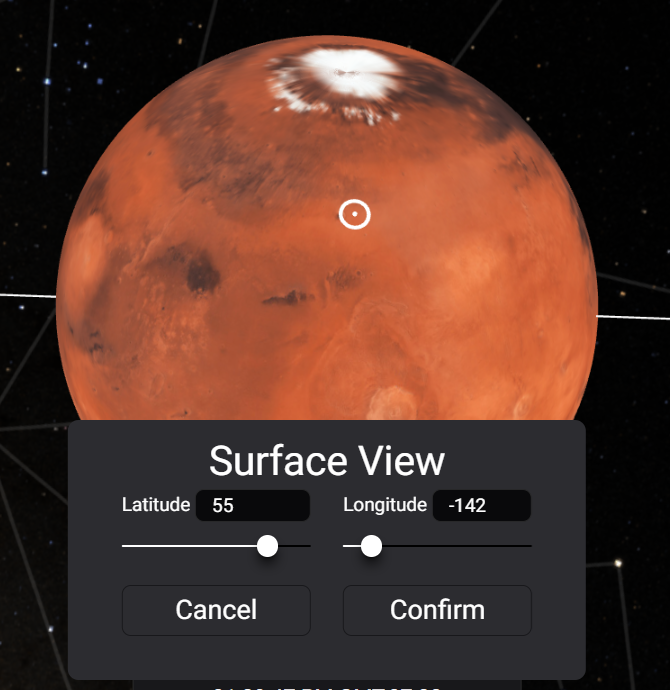
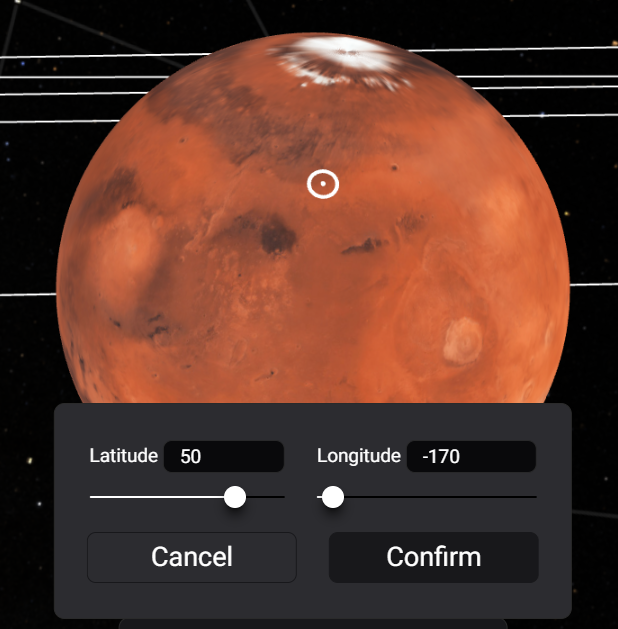
add screenshots to user guide

diff --git a/src/components/dom/hud/surface-dialog/SurfaceViewDialog.tsx b/src/components/dom/hud/surface-dialog/SurfaceViewDialog.tsx
@@ -52,93 +52,98 @@ const SurfaceViewDialog = () => {
     <div
       ref={divRef}
       data-state={state.value}
-      className="prose pointer-events-auto flex h-48 w-96 max-w-[50vw] flex-col items-center justify-start overflow-hidden rounded-lg bg-card px-10 py-3 font-sans data-[state=closed]:hidden prose-headings:m-0"
+      className="prose pointer-events-auto flex h-40 w-96 max-w-[50vw] flex-col items-center justify-center overflow-hidden rounded-lg border-2 bg-card px-6 font-sans data-[state=closed]:hidden prose-headings:m-0"
     >
       {/** Title. */}
-      <header className="m-0 text-center text-3xl">Surface View</header>
+      {/* <header className="m-0 text-center text-3xl">Surface View</header> */}
 
       {/** Content. */}
-      <div className="mt-0 grid h-full w-full grid-cols-2 grid-rows-2 place-items-stretch gap-x-6 gap-y-4 font-sans">
+      <div className="my-auto flex h-full w-full grid-cols-2 grid-rows-2 flex-col items-stretch justify-center gap-x-6 gap-y-4 font-sans">
         {/** Inputs for latitude and longitude. */}
 
-        <div className="col-span-1 col-start-1 row-span-1 row-start-1 flex flex-col items-start justify-center">
-          <Label className="mb-2 inline-flex items-center justify-center">
-            Latitude&nbsp;
-            <Input
-              className="h-6 w-full"
-              type="number"
-              value={latitude}
+        <div className="flex flex-row items-center justify-center gap-6">
+          <div className="flex flex-col items-start justify-center">
+            <Label className="mb-2 inline-flex items-center justify-center">
+              Latitude&nbsp;
+              <Input
+                className="h-6 w-full"
+                type="number"
+                value={latitude}
+                min={MIN_LATITUDE}
+                max={MAX_LATITUDE}
+                step={0.5}
+                onChange={(event) => {
+                  const value = parseFloat(event.target.value);
+                  if (!value && value !== 0) return;
+                  surfaceActor.send({ type: 'SET_LATITUDE', value });
+                }}
+              />
+            </Label>
+            <Slider
+              name="latitude-slider"
+              value={[latitude]}
               min={MIN_LATITUDE}
               max={MAX_LATITUDE}
-              step={0.5}
-              onChange={(event) => {
-                const value = parseFloat(event.target.value);
-                if (!value && value !== 0) return;
+              step={0.1}
+              className="w-full"
+              onValueChange={(values) => {
+                const value = values[0];
+                if (!value) return;
                 surfaceActor.send({ type: 'SET_LATITUDE', value });
               }}
             />
-          </Label>
-          <Slider
-            name="latitude-slider"
-            value={[latitude]}
-            min={MIN_LATITUDE}
-            max={MAX_LATITUDE}
-            step={0.1}
-            className="w-full"
-            onValueChange={(values) => {
-              const value = values[0];
-              if (!value) return;
-              surfaceActor.send({ type: 'SET_LATITUDE', value });
-            }}
-          />
-        </div>
-        <div className="col-span-1 col-start-2 row-span-1 row-start-1 flex flex-col items-start justify-center">
-          <Label className="mb-2 inline-flex items-center justify-center ">
-            Longitude&nbsp;
-            <Input
-              className="h-6  w-full"
-              type="number"
-              value={longitude}
+          </div>
+          <div className="col-span-1 col-start-2 row-span-1 row-start-1 flex flex-col items-start justify-center">
+            <Label className="mb-2 inline-flex items-center justify-center ">
+              Longitude&nbsp;
+              <Input
+                className="h-6  w-full"
+                type="number"
+                value={longitude}
+                min={MIN_LONGITUDE}
+                max={MAX_LATITUDE}
+                step={0.5}
+                onChange={(event) => {
+                  const value = parseFloat(event.target.value);
+                  if (!value && value !== 0) return;
+                  surfaceActor.send({ type: 'SET_LONGITUDE', value });
+                }}
+              />
+            </Label>
+            <Slider
+              name="longitude-slider"
+              value={[longitude]}
               min={MIN_LONGITUDE}
-              max={MAX_LATITUDE}
-              step={0.5}
-              onChange={(event) => {
-                const value = parseFloat(event.target.value);
-                if (!value && value !== 0) return;
+              max={MAX_LONGITUDE}
+              step={0.1}
+              className="w-full"
+              onValueChange={(values) => {
+                const value = values[0];
+                if (!value) return;
                 surfaceActor.send({ type: 'SET_LONGITUDE', value });
               }}
             />
-          </Label>
-          <Slider
-            name="longitude-slider"
-            value={[longitude]}
-            min={MIN_LONGITUDE}
-            max={MAX_LONGITUDE}
-            step={0.1}
-            className="w-full"
-            onValueChange={(values) => {
-              const value = values[0];
-              if (!value) return;
-              surfaceActor.send({ type: 'SET_LONGITUDE', value });
-            }}
-          />
+          </div>
         </div>
-        {/** Cancel button. */}
 
-        <button
-          className=" col-span-1 col-start-1 row-span-1 row-start-2 h-fit w-full min-w-fit  place-items-center rounded-md border border-muted px-2 py-1 text-xl hover:bg-muted"
-          onClick={close}
-        >
-          Cancel
-        </button>
+        <div className="flex flex-row items-center justify-stretch gap-6 ">
+          {/** Cancel button. */}
 
-        {/** Confirm button. */}
-        <button
-          className="col-span-1 col-start-2 row-span-1 row-start-2 h-fit w-full min-w-fit place-items-center rounded-md  border border-muted  px-2 py-1 text-xl hover:bg-muted"
-          onClick={confirm}
-        >
-          Confirm
-        </button>
+          <button
+            className="h-fit w-full min-w-fit  place-items-center rounded-md border border-muted px-2 py-1 text-xl hover:bg-muted"
+            onClick={close}
+          >
+            Cancel
+          </button>
+
+          {/** Confirm button. */}
+          <button
+            className="col-span-1 col-start-2 row-span-1 row-start-2 h-fit w-full min-w-fit place-items-center rounded-md  border border-muted px-2 py-1 text-xl hover:bg-muted"
+            onClick={confirm}
+          >
+            Confirm
+          </button>
+        </div>
       </div>
     </div>
   );
